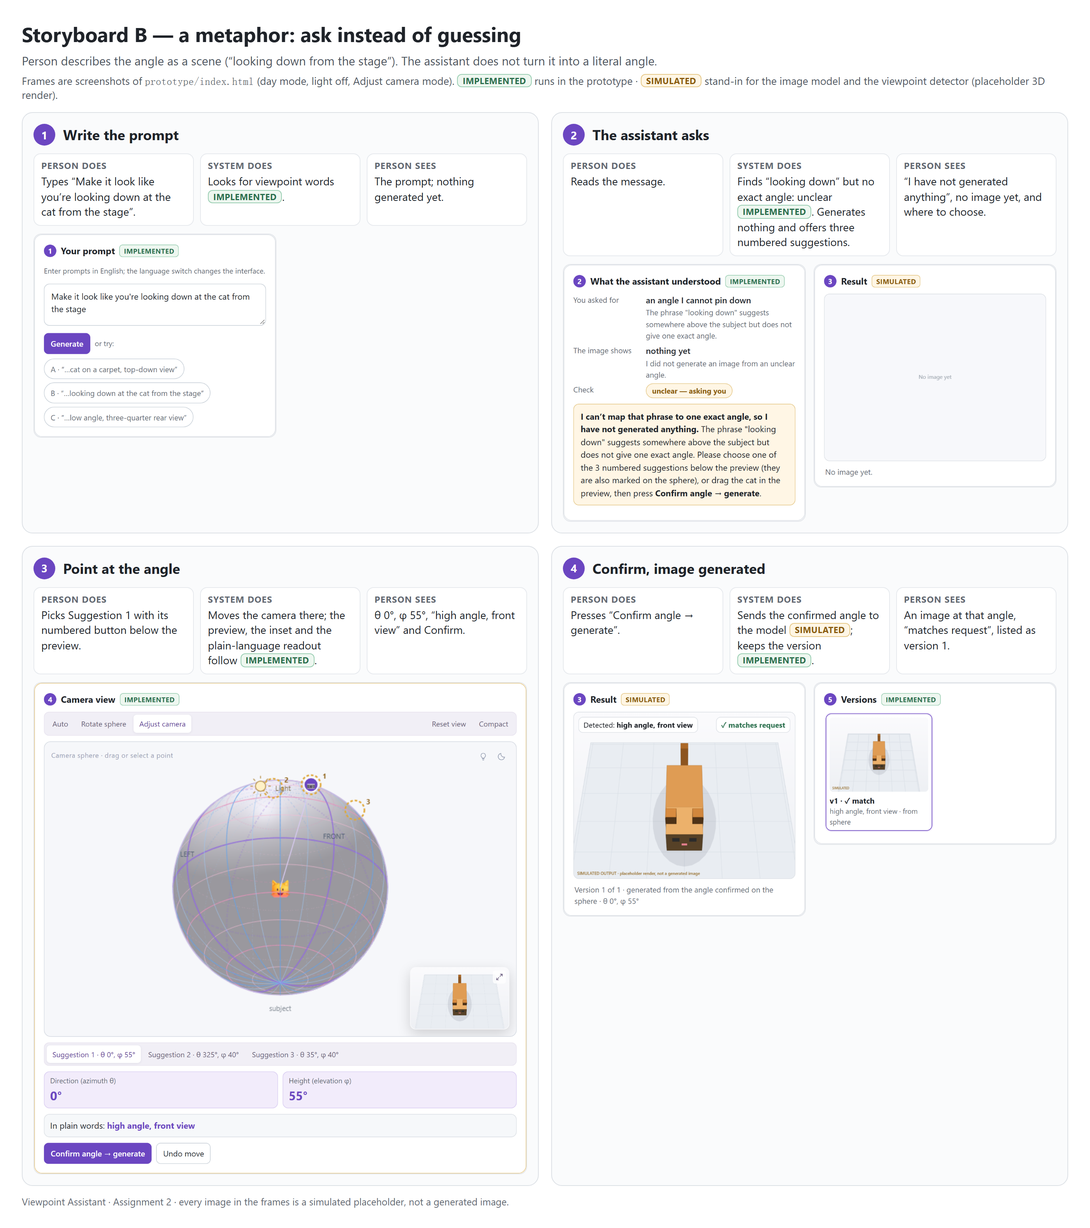
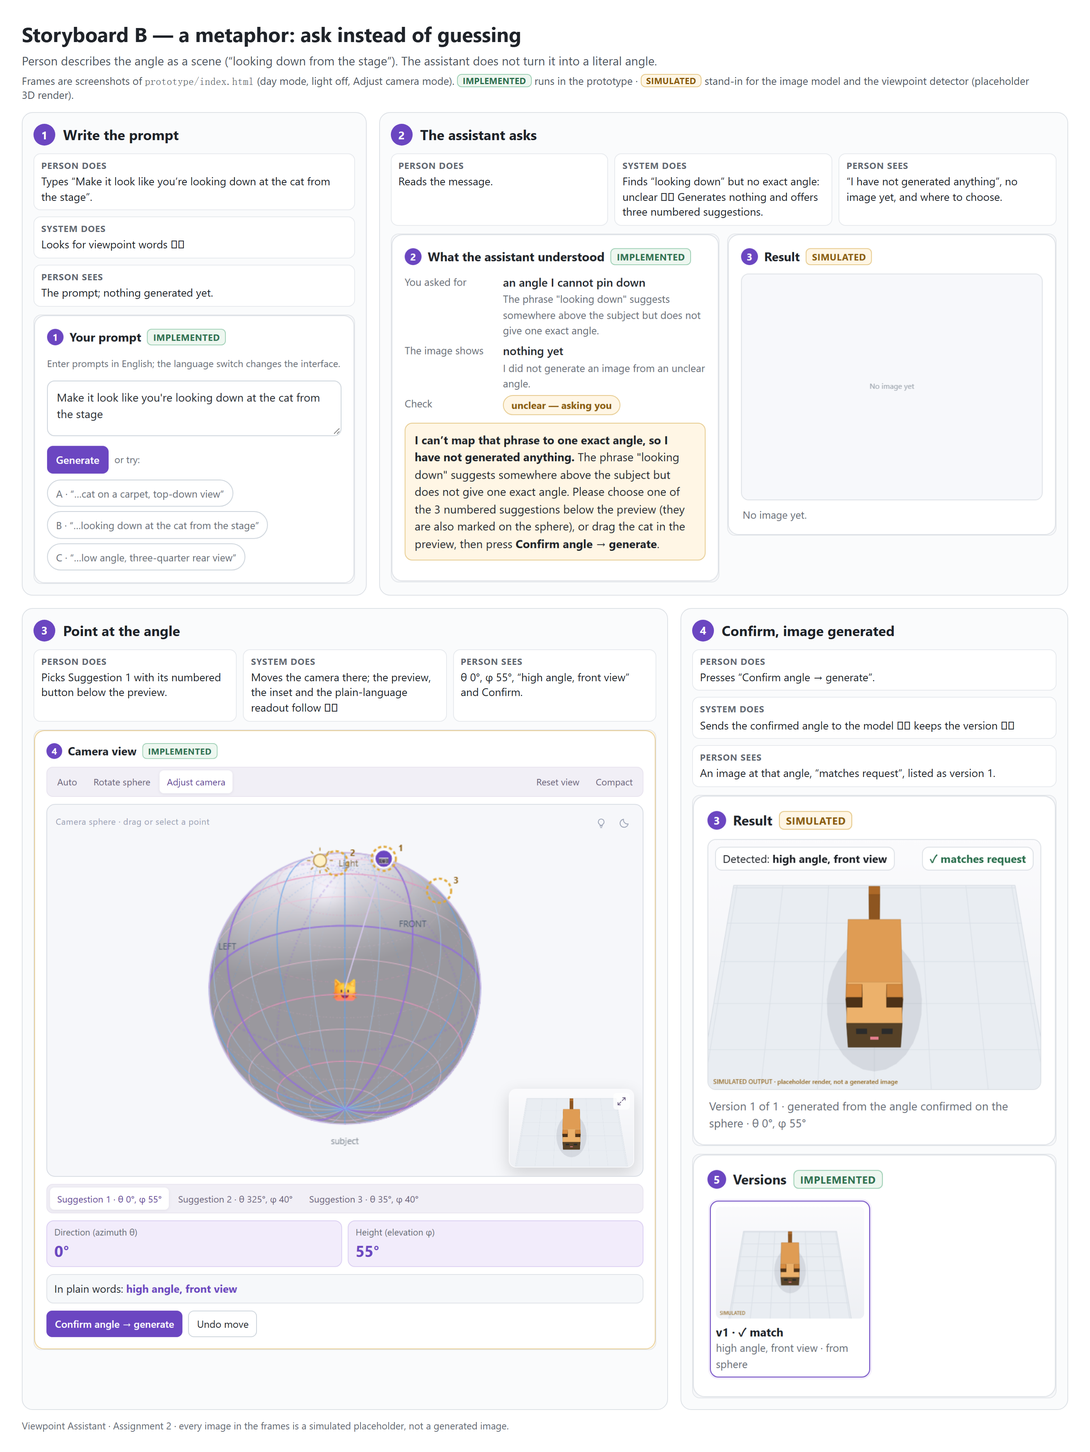
Storyboards: narrow prompt frame, wide comparison frame, stacked result and versions
Frames now fill their rows with little empty space; tags stay on the same
line as their punctuation.

diff --git a/docs/a2/storyboard_C_precise.html b/docs/a2/storyboard_C_precise.html
@@ -2,11 +2,15 @@
 *{box-sizing:border-box;margin:0;padding:0}
 body{font-family:"Segoe UI",Arial,sans-serif;background:#fff;color:#1f2329;padding:26px 28px;width:1400px}
 h1{font-size:26px} .sub{color:#4e5561;font-size:15.5px;margin:6px 0 6px}
-.legend{font-size:13.5px;color:#4e5561;margin-bottom:14px}
+.legend{font-size:13.5px;color:#4e5561;margin-bottom:14px;text-wrap:pretty}
+.row{text-wrap:pretty} .nw{white-space:nowrap}
 .tag{display:inline-block;border-radius:6px;font-size:11px;font-weight:700;letter-spacing:.03em;text-transform:uppercase;padding:0 6px;border:1px solid;vertical-align:1px;white-space:nowrap}
 .tag.impl{background:#eef7f0;color:#2a6f4d;border-color:#9ccfb4}
 .tag.sim{background:#fff6e5;color:#8a5a0c;border-color:#e6c98a}
-.grid{display:grid;grid-template-columns:1fr 1fr;gap:16px}
+.grid{display:grid;gap:16px;margin-bottom:16px;align-items:stretch}
+.grid.r1{grid-template-columns:1fr 2fr}
+.grid.r2{grid-template-columns:5fr 3fr}
+.rows.stack{grid-template-columns:1fr}
 .frame{border:1px solid #dde1e6;border-radius:14px;padding:14px;background:#fafbfc;display:flex;flex-direction:column;gap:10px}
 .n{display:flex;align-items:center;gap:10px;font-weight:700;font-size:18px}
 .n i{font-style:normal;width:28px;height:28px;border-radius:50%;background:#6b46c1;color:#fff;display:inline-flex;align-items:center;justify-content:center;font-size:14px;flex:0 0 auto}
@@ -15,6 +19,7 @@ h1{font-size:26px} .sub{color:#4e5561;font-size:15.5px;margin:6px 0 6px}
 .row b{display:block;font-size:11.5px;letter-spacing:.05em;text-transform:uppercase;color:#646a73;margin-bottom:2px}
 .imgs{display:flex;gap:10px;align-items:flex-start}
 .imgs img{display:block;border-radius:10px;border:1px solid #e3e6ea;background:#fff}
-.imgs.one img{width:100%} .imgs.half img,.imgs.two img{width:calc(50% - 5px)}
-.foot{font-size:12.5px;color:#646a73;margin-top:12px}
-</style></head><body><h1>Storyboard C — a precise angle that shortcuts cannot reach</h1><p class="sub">An everyday creator works backwards from the angle they have in mind — a low three-quarter rear view — adjusts it exactly, then compares versions.</p><p class="legend">Frames are screenshots of <code>prototype/index.html</code> (day mode, light off, Adjust camera mode). <span class="tag impl">implemented</span> runs in the prototype · <span class="tag sim">simulated</span> stand-in for the image model and the viewpoint detector (placeholder 3D render).</p><div class="grid"><div class="frame"><div class="n"><i>1</i>Write the prompt</div><div class="rows"><div class="row"><b>Person does</b>Types “…cat figurine, low angle, three-quarter rear view”.</div><div class="row"><b>System does</b>Combines two viewpoint words: height φ −35°, direction θ 135° <span class="tag impl">implemented</span>.</div><div class="row"><b>Person sees</b>The prompt; nothing generated yet.</div></div><div class="imgs half"><img src="screens/C1_prompt.png" alt="Write the prompt"></div></div><div class="frame"><div class="n"><i>2</i>Mismatch, proposal made</div><div class="rows"><div class="row"><b>Person does</b>Looks at the first image and the proposal.</div><div class="row"><b>System does</b>The text-only image comes back eye-level <span class="tag sim">simulated</span>; the comparison flags a mismatch <span class="tag impl">implemented</span> and moves the camera to the requested angle.</div><div class="row"><b>Person sees</b>“not the angle asked for”; the camera now at “low angle, back-right view”.</div></div><div class="imgs two"><img src="screens/C2_understood.png" alt="Mismatch, proposal made"><img src="screens/C2_result.png" alt="Mismatch, proposal made"></div></div><div class="frame"><div class="n"><i>3</i>Fine-tune with the sliders</div><div class="rows"><div class="row"><b>Person does</b>Drags the sliders to θ 150°, φ −20°.</div><div class="row"><b>System does</b>Updates the preview, the inset and the plain-language readout live <span class="tag impl">implemented</span>. Each completed slider move is one Undo step.</div><div class="row"><b>Person sees</b>Exact numbers, “slightly low angle, back-right view” and the preview.</div></div><div class="imgs one"><img src="screens/C3_camera.png" alt="Fine-tune with the sliders"></div></div><div class="frame"><div class="n"><i>4</i>Confirm and compare versions</div><div class="rows"><div class="row"><b>Person does</b>Presses Confirm; can click any version to go back.</div><div class="row"><b>System does</b>Generates a new version at that angle <span class="tag sim">simulated</span>; keeps all versions <span class="tag impl">implemented</span>.</div><div class="row"><b>Person sees</b>The new image with “matches request”; both versions side by side.</div></div><div class="imgs two"><img src="screens/C4_result.png" alt="Confirm and compare versions"><img src="screens/C4_versions.png" alt="Confirm and compare versions"></div></div></div><p class="foot">Viewpoint Assistant · Assignment 2 · every image in the frames is a simulated placeholder, not a generated image.</p></body></html>
+.imgs.one img,.imgs.half img{width:100%} .imgs.two img{width:calc(50% - 5px)}
+.imgs.col{flex-direction:column} .imgs.col img{width:100%}
+.foot{font-size:12.5px;color:#646a73;margin-top:-4px}
+</style></head><body><h1>Storyboard C — a precise angle that shortcuts cannot reach</h1><p class="sub">An everyday creator works backwards from the angle they have in mind — a low three-quarter rear view — adjusts it exactly, then compares versions.</p><p class="legend">Frames are screenshots of <code>prototype/index.html</code> (day mode, light off, Adjust camera mode). <span class="tag impl">implemented</span> runs in the prototype · <span class="tag sim">simulated</span> stand-in for the image model and the viewpoint detector (placeholder 3D render).</p><div class="grid r1"><div class="frame"><div class="n"><i>1</i>Write the prompt</div><div class="rows stack"><div class="row"><b>Person does</b>Types “…cat figurine, low angle, three-quarter rear view”.</div><div class="row"><b>System does</b>Combines two viewpoint words: height φ −35°, direction θ 135° <span class="nw"></span></div><div class="row"><b>Person sees</b>The prompt; nothing generated yet.</div></div><div class="imgs half"><img src="screens/C1_prompt.png" alt="Write the prompt"></div></div><div class="frame"><div class="n"><i>2</i>Mismatch, proposal made</div><div class="rows"><div class="row"><b>Person does</b>Looks at the first image and the proposal.</div><div class="row"><b>System does</b>The text-only image comes back eye-level <span class="nw"></span> the comparison flags a mismatch <span class="tag impl">implemented</span> and moves the camera to the requested angle.</div><div class="row"><b>Person sees</b>“not the angle asked for”; the camera now at “low angle, back-right view”.</div></div><div class="imgs two"><img src="screens/C2_understood.png" alt="Mismatch, proposal made"><img src="screens/C2_result.png" alt="Mismatch, proposal made"></div></div></div><div class="grid r2"><div class="frame"><div class="n"><i>3</i>Fine-tune with the sliders</div><div class="rows"><div class="row"><b>Person does</b>Drags the sliders to θ 150°, φ −20°.</div><div class="row"><b>System does</b>Updates the preview, the inset and the plain-language readout live <span class="nw"></span> Each completed slider move is one Undo step.</div><div class="row"><b>Person sees</b>Exact numbers, “slightly low angle, back-right view” and the preview.</div></div><div class="imgs one"><img src="screens/C3_camera.png" alt="Fine-tune with the sliders"></div></div><div class="frame"><div class="n"><i>4</i>Confirm and compare versions</div><div class="rows stack"><div class="row"><b>Person does</b>Presses Confirm; can click any version to go back.</div><div class="row"><b>System does</b>Generates a new version at that angle <span class="nw"></span> keeps all versions <span class="nw"></span></div><div class="row"><b>Person sees</b>The new image with “matches request”; both versions side by side.</div></div><div class="imgs col"><img src="screens/C4_result.png" alt="Confirm and compare versions"><img src="screens/C4_versions.png" alt="Confirm and compare versions"></div></div></div><p class="foot">Viewpoint Assistant · Assignment 2 · every image in the frames is a simulated placeholder, not a generated image.</p></body></html>

diff --git a/docs/a2/storyboard_A_corrected.html b/docs/a2/storyboard_A_corrected.html
@@ -2,11 +2,15 @@
 *{box-sizing:border-box;margin:0;padding:0}
 body{font-family:"Segoe UI",Arial,sans-serif;background:#fff;color:#1f2329;padding:26px 28px;width:1400px}
 h1{font-size:26px} .sub{color:#4e5561;font-size:15.5px;margin:6px 0 6px}
-.legend{font-size:13.5px;color:#4e5561;margin-bottom:14px}
+.legend{font-size:13.5px;color:#4e5561;margin-bottom:14px;text-wrap:pretty}
+.row{text-wrap:pretty} .nw{white-space:nowrap}
 .tag{display:inline-block;border-radius:6px;font-size:11px;font-weight:700;letter-spacing:.03em;text-transform:uppercase;padding:0 6px;border:1px solid;vertical-align:1px;white-space:nowrap}
 .tag.impl{background:#eef7f0;color:#2a6f4d;border-color:#9ccfb4}
 .tag.sim{background:#fff6e5;color:#8a5a0c;border-color:#e6c98a}
-.grid{display:grid;grid-template-columns:1fr 1fr;gap:16px}
+.grid{display:grid;gap:16px;margin-bottom:16px;align-items:stretch}
+.grid.r1{grid-template-columns:1fr 2fr}
+.grid.r2{grid-template-columns:5fr 3fr}
+.rows.stack{grid-template-columns:1fr}
 .frame{border:1px solid #dde1e6;border-radius:14px;padding:14px;background:#fafbfc;display:flex;flex-direction:column;gap:10px}
 .n{display:flex;align-items:center;gap:10px;font-weight:700;font-size:18px}
 .n i{font-style:normal;width:28px;height:28px;border-radius:50%;background:#6b46c1;color:#fff;display:inline-flex;align-items:center;justify-content:center;font-size:14px;flex:0 0 auto}
@@ -15,6 +19,7 @@ h1{font-size:26px} .sub{color:#4e5561;font-size:15.5px;margin:6px 0 6px}
 .row b{display:block;font-size:11.5px;letter-spacing:.05em;text-transform:uppercase;color:#646a73;margin-bottom:2px}
 .imgs{display:flex;gap:10px;align-items:flex-start}
 .imgs img{display:block;border-radius:10px;border:1px solid #e3e6ea;background:#fff}
-.imgs.one img{width:100%} .imgs.half img,.imgs.two img{width:calc(50% - 5px)}
-.foot{font-size:12.5px;color:#646a73;margin-top:12px}
-</style></head><body><h1>Storyboard A — a clear request that comes back at the wrong angle</h1><p class="sub">Person wants a top-down photo of a cat. The assistant checks the angle, flags the mismatch and lets the person confirm the fix.</p><p class="legend">Frames are screenshots of <code>prototype/index.html</code> (day mode, light off, Adjust camera mode). <span class="tag impl">implemented</span> runs in the prototype · <span class="tag sim">simulated</span> stand-in for the image model and the viewpoint detector (placeholder 3D render).</p><div class="grid"><div class="frame"><div class="n"><i>1</i>Write the prompt</div><div class="rows"><div class="row"><b>Person does</b>Types “…cat on a carpet, top-down view” and presses Generate.</div><div class="row"><b>System does</b>Reads the viewpoint word “top-down” as height φ 90° <span class="tag impl">implemented</span>.</div><div class="row"><b>Person sees</b>The prompt; nothing generated yet.</div></div><div class="imgs half"><img src="screens/A1_prompt.png" alt="Write the prompt"></div></div><div class="frame"><div class="n"><i>2</i>The wrong angle is flagged</div><div class="rows"><div class="row"><b>Person does</b>Looks at the first image.</div><div class="row"><b>System does</b>Generates from the text alone <span class="tag sim">simulated</span>, detects the angle <span class="tag sim">simulated</span>, compares it with the request <span class="tag impl">implemented</span>: mismatch.</div><div class="row"><b>Person sees</b>“eye-level, front-right view”, “not the angle asked for”, and why.</div></div><div class="imgs two"><img src="screens/A2_understood.png" alt="The wrong angle is flagged"><img src="screens/A2_result.png" alt="The wrong angle is flagged"></div></div><div class="frame"><div class="n"><i>3</i>Fix proposed, nothing changed yet</div><div class="rows"><div class="row"><b>Person does</b>Checks the proposed angle in the live preview and the inset sphere; can drag, use the sliders or a shortcut.</div><div class="row"><b>System does</b>Moves the camera to top-down <span class="tag impl">implemented</span>. No regeneration without confirmation.</div><div class="row"><b>Person sees</b>A view from above, “top-down view” and the Confirm button.</div></div><div class="imgs one"><img src="screens/A3_camera.png" alt="Fix proposed, nothing changed yet"></div></div><div class="frame"><div class="n"><i>4</i>Confirm, new version</div><div class="rows"><div class="row"><b>Person does</b>Presses “Confirm angle → generate”.</div><div class="row"><b>System does</b>Sends the confirmed angle to the model <span class="tag sim">simulated</span>, checks again, keeps both versions <span class="tag impl">implemented</span>.</div><div class="row"><b>Person sees</b>Top-down image, “matches request”; the first image stays in the version list.</div></div><div class="imgs two"><img src="screens/A4_result.png" alt="Confirm, new version"><img src="screens/A4_versions.png" alt="Confirm, new version"></div></div></div><p class="foot">Viewpoint Assistant · Assignment 2 · every image in the frames is a simulated placeholder, not a generated image.</p></body></html>
+.imgs.one img,.imgs.half img{width:100%} .imgs.two img{width:calc(50% - 5px)}
+.imgs.col{flex-direction:column} .imgs.col img{width:100%}
+.foot{font-size:12.5px;color:#646a73;margin-top:-4px}
+</style></head><body><h1>Storyboard A — a clear request that comes back at the wrong angle</h1><p class="sub">Person wants a top-down photo of a cat. The assistant checks the angle, flags the mismatch and lets the person confirm the fix.</p><p class="legend">Frames are screenshots of <code>prototype/index.html</code> (day mode, light off, Adjust camera mode). <span class="tag impl">implemented</span> runs in the prototype · <span class="tag sim">simulated</span> stand-in for the image model and the viewpoint detector (placeholder 3D render).</p><div class="grid r1"><div class="frame"><div class="n"><i>1</i>Write the prompt</div><div class="rows stack"><div class="row"><b>Person does</b>Types “…cat on a carpet, top-down view” and presses Generate.</div><div class="row"><b>System does</b>Reads the viewpoint word “top-down” as height φ 90° <span class="nw"></span></div><div class="row"><b>Person sees</b>The prompt; nothing generated yet.</div></div><div class="imgs half"><img src="screens/A1_prompt.png" alt="Write the prompt"></div></div><div class="frame"><div class="n"><i>2</i>The wrong angle is flagged</div><div class="rows"><div class="row"><b>Person does</b>Looks at the first image.</div><div class="row"><b>System does</b>Generates from the text alone <span class="nw"></span> detects the angle <span class="nw"></span> compares it with the request <span class="nw"></span> mismatch.</div><div class="row"><b>Person sees</b>“eye-level, front-right view”, “not the angle asked for”, and why.</div></div><div class="imgs two"><img src="screens/A2_understood.png" alt="The wrong angle is flagged"><img src="screens/A2_result.png" alt="The wrong angle is flagged"></div></div></div><div class="grid r2"><div class="frame"><div class="n"><i>3</i>Fix proposed, nothing changed yet</div><div class="rows"><div class="row"><b>Person does</b>Checks the proposed angle in the live preview and the inset sphere; can drag, use the sliders or a shortcut.</div><div class="row"><b>System does</b>Moves the camera to top-down <span class="nw"></span> No regeneration without confirmation.</div><div class="row"><b>Person sees</b>A view from above, “top-down view” and the Confirm button.</div></div><div class="imgs one"><img src="screens/A3_camera.png" alt="Fix proposed, nothing changed yet"></div></div><div class="frame"><div class="n"><i>4</i>Confirm, new version</div><div class="rows stack"><div class="row"><b>Person does</b>Presses “Confirm angle → generate”.</div><div class="row"><b>System does</b>Sends the confirmed angle to the model <span class="nw"></span> checks again, keeps both versions <span class="nw"></span></div><div class="row"><b>Person sees</b>Top-down image, “matches request”; the first image stays in the version list.</div></div><div class="imgs col"><img src="screens/A4_result.png" alt="Confirm, new version"><img src="screens/A4_versions.png" alt="Confirm, new version"></div></div></div><p class="foot">Viewpoint Assistant · Assignment 2 · every image in the frames is a simulated placeholder, not a generated image.</p></body></html>

diff --git a/docs/a2/storyboard_B_asked.html b/docs/a2/storyboard_B_asked.html
@@ -2,11 +2,15 @@
 *{box-sizing:border-box;margin:0;padding:0}
 body{font-family:"Segoe UI",Arial,sans-serif;background:#fff;color:#1f2329;padding:26px 28px;width:1400px}
 h1{font-size:26px} .sub{color:#4e5561;font-size:15.5px;margin:6px 0 6px}
-.legend{font-size:13.5px;color:#4e5561;margin-bottom:14px}
+.legend{font-size:13.5px;color:#4e5561;margin-bottom:14px;text-wrap:pretty}
+.row{text-wrap:pretty} .nw{white-space:nowrap}
 .tag{display:inline-block;border-radius:6px;font-size:11px;font-weight:700;letter-spacing:.03em;text-transform:uppercase;padding:0 6px;border:1px solid;vertical-align:1px;white-space:nowrap}
 .tag.impl{background:#eef7f0;color:#2a6f4d;border-color:#9ccfb4}
 .tag.sim{background:#fff6e5;color:#8a5a0c;border-color:#e6c98a}
-.grid{display:grid;grid-template-columns:1fr 1fr;gap:16px}
+.grid{display:grid;gap:16px;margin-bottom:16px;align-items:stretch}
+.grid.r1{grid-template-columns:1fr 2fr}
+.grid.r2{grid-template-columns:5fr 3fr}
+.rows.stack{grid-template-columns:1fr}
 .frame{border:1px solid #dde1e6;border-radius:14px;padding:14px;background:#fafbfc;display:flex;flex-direction:column;gap:10px}
 .n{display:flex;align-items:center;gap:10px;font-weight:700;font-size:18px}
 .n i{font-style:normal;width:28px;height:28px;border-radius:50%;background:#6b46c1;color:#fff;display:inline-flex;align-items:center;justify-content:center;font-size:14px;flex:0 0 auto}
@@ -15,6 +19,7 @@ h1{font-size:26px} .sub{color:#4e5561;font-size:15.5px;margin:6px 0 6px}
 .row b{display:block;font-size:11.5px;letter-spacing:.05em;text-transform:uppercase;color:#646a73;margin-bottom:2px}
 .imgs{display:flex;gap:10px;align-items:flex-start}
 .imgs img{display:block;border-radius:10px;border:1px solid #e3e6ea;background:#fff}
-.imgs.one img{width:100%} .imgs.half img,.imgs.two img{width:calc(50% - 5px)}
-.foot{font-size:12.5px;color:#646a73;margin-top:12px}
-</style></head><body><h1>Storyboard B — a metaphor: ask instead of guessing</h1><p class="sub">Person describes the angle as a scene (“looking down from the stage”). The assistant does not turn it into a literal angle.</p><p class="legend">Frames are screenshots of <code>prototype/index.html</code> (day mode, light off, Adjust camera mode). <span class="tag impl">implemented</span> runs in the prototype · <span class="tag sim">simulated</span> stand-in for the image model and the viewpoint detector (placeholder 3D render).</p><div class="grid"><div class="frame"><div class="n"><i>1</i>Write the prompt</div><div class="rows"><div class="row"><b>Person does</b>Types “Make it look like you’re looking down at the cat from the stage”.</div><div class="row"><b>System does</b>Looks for viewpoint words <span class="tag impl">implemented</span>.</div><div class="row"><b>Person sees</b>The prompt; nothing generated yet.</div></div><div class="imgs half"><img src="screens/B1_prompt.png" alt="Write the prompt"></div></div><div class="frame"><div class="n"><i>2</i>The assistant asks</div><div class="rows"><div class="row"><b>Person does</b>Reads the message.</div><div class="row"><b>System does</b>Finds “looking down” but no exact angle: unclear <span class="tag impl">implemented</span>. Generates nothing and offers three numbered suggestions.</div><div class="row"><b>Person sees</b>“I have not generated anything”, no image yet, and where to choose.</div></div><div class="imgs two"><img src="screens/B2_understood.png" alt="The assistant asks"><img src="screens/B2_result.png" alt="The assistant asks"></div></div><div class="frame"><div class="n"><i>3</i>Point at the angle</div><div class="rows"><div class="row"><b>Person does</b>Picks Suggestion 1 with its numbered button below the preview.</div><div class="row"><b>System does</b>Moves the camera there; the preview, the inset and the plain-language readout follow <span class="tag impl">implemented</span>.</div><div class="row"><b>Person sees</b>θ 0°, φ 55°, “high angle, front view” and Confirm.</div></div><div class="imgs one"><img src="screens/B3_camera.png" alt="Point at the angle"></div></div><div class="frame"><div class="n"><i>4</i>Confirm, image generated</div><div class="rows"><div class="row"><b>Person does</b>Presses “Confirm angle → generate”.</div><div class="row"><b>System does</b>Sends the confirmed angle to the model <span class="tag sim">simulated</span>; keeps the version <span class="tag impl">implemented</span>.</div><div class="row"><b>Person sees</b>An image at that angle, “matches request”, listed as version 1.</div></div><div class="imgs two"><img src="screens/B4_result.png" alt="Confirm, image generated"><img src="screens/B4_versions.png" alt="Confirm, image generated"></div></div></div><p class="foot">Viewpoint Assistant · Assignment 2 · every image in the frames is a simulated placeholder, not a generated image.</p></body></html>
+.imgs.one img,.imgs.half img{width:100%} .imgs.two img{width:calc(50% - 5px)}
+.imgs.col{flex-direction:column} .imgs.col img{width:100%}
+.foot{font-size:12.5px;color:#646a73;margin-top:-4px}
+</style></head><body><h1>Storyboard B — a metaphor: ask instead of guessing</h1><p class="sub">Person describes the angle as a scene (“looking down from the stage”). The assistant does not turn it into a literal angle.</p><p class="legend">Frames are screenshots of <code>prototype/index.html</code> (day mode, light off, Adjust camera mode). <span class="tag impl">implemented</span> runs in the prototype · <span class="tag sim">simulated</span> stand-in for the image model and the viewpoint detector (placeholder 3D render).</p><div class="grid r1"><div class="frame"><div class="n"><i>1</i>Write the prompt</div><div class="rows stack"><div class="row"><b>Person does</b>Types “Make it look like you’re looking down at the cat from the stage”.</div><div class="row"><b>System does</b>Looks for viewpoint words <span class="nw"></span></div><div class="row"><b>Person sees</b>The prompt; nothing generated yet.</div></div><div class="imgs half"><img src="screens/B1_prompt.png" alt="Write the prompt"></div></div><div class="frame"><div class="n"><i>2</i>The assistant asks</div><div class="rows"><div class="row"><b>Person does</b>Reads the message.</div><div class="row"><b>System does</b>Finds “looking down” but no exact angle: unclear <span class="nw"></span> Generates nothing and offers three numbered suggestions.</div><div class="row"><b>Person sees</b>“I have not generated anything”, no image yet, and where to choose.</div></div><div class="imgs two"><img src="screens/B2_understood.png" alt="The assistant asks"><img src="screens/B2_result.png" alt="The assistant asks"></div></div></div><div class="grid r2"><div class="frame"><div class="n"><i>3</i>Point at the angle</div><div class="rows"><div class="row"><b>Person does</b>Picks Suggestion 1 with its numbered button below the preview.</div><div class="row"><b>System does</b>Moves the camera there; the preview, the inset and the plain-language readout follow <span class="nw"></span></div><div class="row"><b>Person sees</b>θ 0°, φ 55°, “high angle, front view” and Confirm.</div></div><div class="imgs one"><img src="screens/B3_camera.png" alt="Point at the angle"></div></div><div class="frame"><div class="n"><i>4</i>Confirm, image generated</div><div class="rows stack"><div class="row"><b>Person does</b>Presses “Confirm angle → generate”.</div><div class="row"><b>System does</b>Sends the confirmed angle to the model <span class="nw"></span> keeps the version <span class="nw"></span></div><div class="row"><b>Person sees</b>An image at that angle, “matches request”, listed as version 1.</div></div><div class="imgs col"><img src="screens/B4_result.png" alt="Confirm, image generated"><img src="screens/B4_versions.png" alt="Confirm, image generated"></div></div></div><p class="foot">Viewpoint Assistant · Assignment 2 · every image in the frames is a simulated placeholder, not a generated image.</p></body></html>
